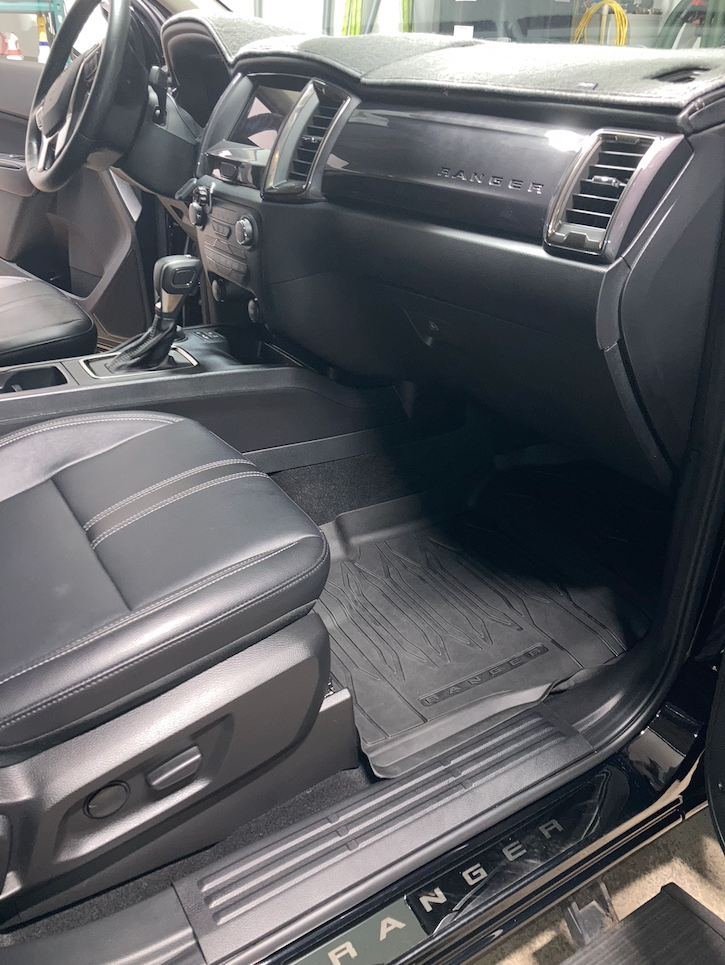
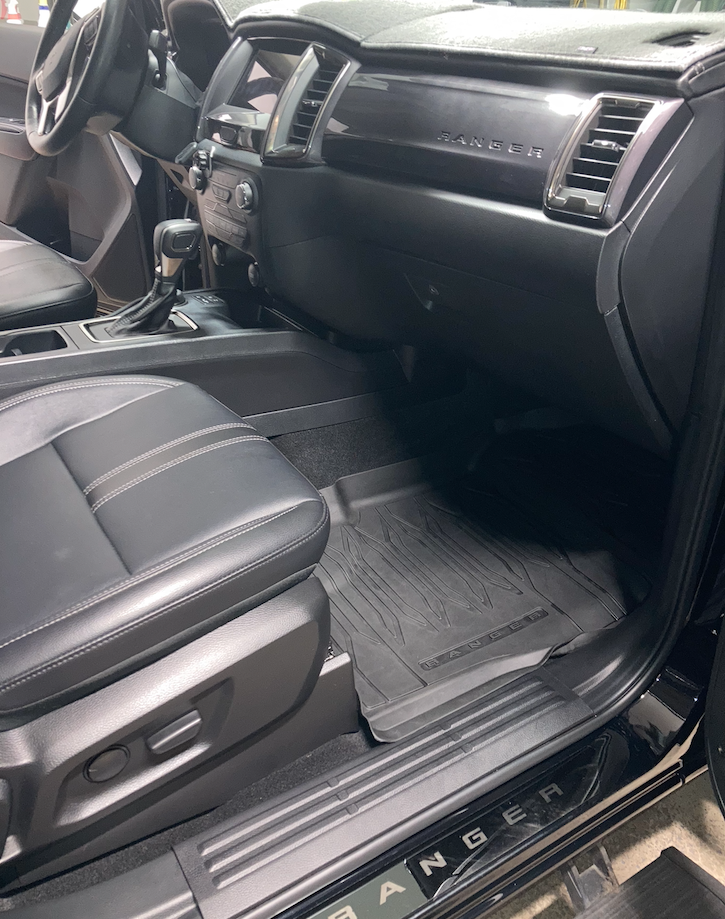
update random stuff

diff --git a/src/app/page.js b/src/app/page.js
@@ -45,8 +45,8 @@ export default function Home() {
       <div className="about w-full relative top-0 bg-zinc-900 min-h-[50vh]">
         <div className="bg-primary absolute h-full w-[40%] lg:w-[30%] right-0 z-20" />
 
-        <div className="flex flex-row w-full h-full z-30 relative px-8 sm:px-12 py-6 gap-8 2xl:gap-16 lg:px-24 xl:px-40">
-          <div className="relative w-full md:w-[50%] flex justify-center items-center my-[10%]">
+        <div className="flex flex-row w-full h-full z-30 relative px-8 sm:px-12 py-6 gap-8 2xl:gap-16 lg:px-24">
+          <div className="relative w-full md:w-[40%] flex justify-center items-center my-[10%]">
 
               <div className="w-full p-2 my-20 text-zinc-50">
                 <h1 className="font-[300] text-4xl text-left z-20 items-center mb-2">ABOUT</h1>
@@ -56,12 +56,12 @@ export default function Home() {
         
 
           </div>
-          <div className="hidden md:flex relative w-[50%] px-2 my-12 items-center justify-center rounded-sm overflow-hidden">
+          <div className="hidden md:flex relative w-[60%] px-2 my-12 items-center justify-center rounded-sm overflow-hidden">
               <Image 
-                src="/heroImage.png"
+                src="/ecosport.JPEG"
                 alt="image"
                 fill={true}
-                className="object-cover contrast-125 brightness-50 rounded-sm object-center p-2"
+                className="object-cover brightness-[105%] contrast-[105%] saturation-[90%] rounded-sm object-center p-2"
               />
           </div>
         </div>
@@ -102,13 +102,13 @@ export default function Home() {
 
         <div className="w-full text-zinc-50 z-30 relative">
 
-          <div className="bg-zinc-400 absolute w-full h-[65%]">
+          <div className="bg-zinc-400 absolute w-full h-[80%] md:h-[65%]">
             <Image 
-              src="/heroImage.png"
+              src="/portfolio-items/item-9/after-4.png"
               alt="interior"
               fill={true}
               quality="100"
-              className="brightness-[40%] saturate-50 contrast-[140%] object-cover z-10"
+              className="brightness-[30%] saturate-[90%] contrast-[120%] object-cover z-10"
             />
           </div>
 

diff --git a/src/components/Navbar.js b/src/components/Navbar.js
@@ -42,7 +42,7 @@ export default function Navbar () {
             )}
         </button>
 
-        <div className={`w-[80vw] transition-all h-full z-40 text-zinc-50 shadow-xl p-6 text-xl font-white fixed ${showMobileNav ? "right-[-80vw]" : "right-0"} sm:hidden bg-primary rounded-l-sm`}>
+        <div className={`w-[80vw] transition-all h-full z-40 text-zinc-50 shadow-xl p-6 text-xl font-white fixed ${showMobileNav ? "right-[-80vw]" : "right-0"} sm:hidden bg-zinc-950 black-gradient rounded-l-sm`}>
             <nav className="flex flex-col gap-8 font-[400] mt-[80%]">
                 <NavBtn 
                     destination="/"
@@ -59,7 +59,7 @@ export default function Navbar () {
             </nav>
         </div>
 
-        <div className="hidden sm:flex flex-row justify-between pl-4 pr-8 h-20 z-50 bg-primary items-center text-zinc-50">
+        <div className="hidden sm:flex flex-row justify-between pl-4 pr-8 h-20 z-50 bg-primary primary-gradient items-center text-zinc-50">
             <div className="items-center relative h-28 w-28">
                 <Link href="/">
                     <Image 

diff --git a/src/pricingModule.js b/src/pricingModule.js
@@ -8,11 +8,11 @@ export const PACKAGES_DATA = {
     WHITE: {
         desc: "Interior Detail",
         features: [
-            "Door jamb cleaning",
             "Thorough vacuum",
             "Plastics, vinyl, & leather cleaning",
             "Interior glass cleaning",
-            "Hard surfaces UV protection & restoration"
+            "Protectant application",
+            "Door jamb cleaning"
         ],
         prices: {
             "S": "$100",

diff --git a/src/app/globals.css b/src/app/globals.css
@@ -14,16 +14,13 @@ body::-webkit-scrollbar {
   @apply transition-all text-lg text-center duration-300 w-32;
 }
 .nav-div > a:hover {
-  @apply text-black;
+  @apply text-zinc-300;
 }
 
 .nav-logo {
   @apply transition-all duration-300;
 }
 
-.nav-logo:hover {
-  @apply brightness-0;
-}
 
 .hoverPrimary:hover {
   @apply bg-zinc-50 border-zinc-50 text-black bg-none;

diff --git a/src/app/layout.js b/src/app/layout.js
@@ -4,7 +4,7 @@ import "./globals.css";
 import Navbar from "@/components/Navbar";
 import Footer from "@/components/Footer";
 
-const font = Quicksand({ subsets: ["latin"], weight: ['300', '400', '600'] });
+const font = Quicksand({ subsets: ["latin"], weight: ['300', '400', '600'], display: "swap" });
 
 export const metadata = {
   title: "Devlin Auto Detail",
